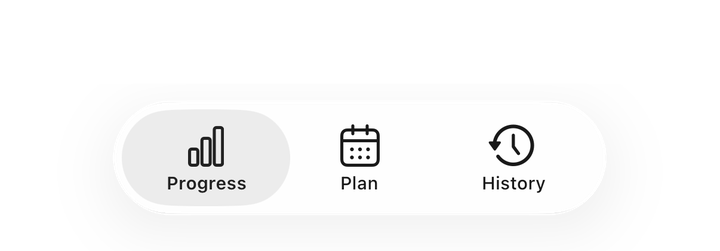
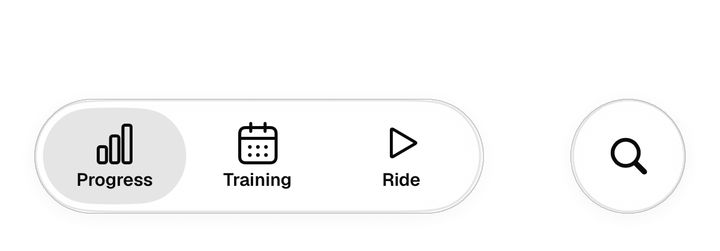
Torque case: plates from the app as of 2026-10-20 (Progress, Calendar, a ride, Ride now mid-session as one screen), new tab bars and poster; ?stagehold holds the opening frame for poster renders

diff --git a/index.html b/index.html
@@ -121,9 +121,9 @@
 
       <article class="case rise">
         <div class="case__media">
-          <img class="case__poster" src="public/images/torque/torque-stage-poster.jpg?v=3" alt="" loading="lazy">
+          <img class="case__poster" src="public/images/torque/torque-stage-poster.jpg?v=4" alt="" loading="lazy">
           <canvas class="case__canvas" data-stage="torque" data-model="public/models/iphone-17-pro.min.glb"
-                  data-plates="public/images/torque/plates/plate-1.webp?v=2,public/images/torque/plates/plate-2.webp?v=2,public/images/torque/plates/plate-3.webp?v=2,public/images/torque/plates/plate-4.webp?v=2"></canvas>
+                  data-plates="public/images/torque/plates/plate-1.webp?v=3,public/images/torque/plates/plate-2.webp?v=3,public/images/torque/plates/plate-3.webp?v=3,public/images/torque/plates/plate-4.webp?v=3"></canvas>
         </div>
         <div class="case__head">
           <h3 class="h3">Torque</h3>
@@ -148,7 +148,7 @@
                  data-src-narrow="public/videos/formalize-loop-narrow.mp4?v=1"
                  muted loop playsinline preload="none" aria-hidden="true"></video>
           <canvas class="case__canvas" data-stage="formalize" data-film="1"
-                  data-plates="public/images/formalize/plates/plate-1.webp?v=2,public/images/formalize/plates/plate-2.webp?v=2,public/images/formalize/plates/plate-3.webp?v=2,public/images/formalize/plates/plate-4.webp?v=2"></canvas>
+                  data-plates="public/images/formalize/plates/plate-1.webp?v=3,public/images/formalize/plates/plate-2.webp?v=3,public/images/formalize/plates/plate-3.webp?v=3,public/images/formalize/plates/plate-4.webp?v=3"></canvas>
         </div>
         <div class="case__head">
           <h3 class="h3">Formalize</h3>
@@ -173,7 +173,7 @@
                  data-src-narrow="public/videos/maersk-loop-narrow.mp4?v=1"
                  muted loop playsinline preload="none" aria-hidden="true"></video>
           <canvas class="case__canvas" data-stage="maersk" data-film="1"
-                  data-plates="public/images/maersk/plates/plate-1.webp?v=2,public/images/maersk/plates/plate-2.webp?v=2,public/images/maersk/plates/plate-3.webp?v=2"></canvas>
+                  data-plates="public/images/maersk/plates/plate-1.webp?v=3,public/images/maersk/plates/plate-2.webp?v=3,public/images/maersk/plates/plate-3.webp?v=3"></canvas>
         </div>
         <div class="case__head">
           <h3 class="h3">Maersk</h3>
@@ -192,7 +192,7 @@
         <div class="case__media">
           <img class="case__poster" src="public/images/matas/matas-stage-poster.jpg?v=2" alt="" loading="lazy">
           <canvas class="case__canvas" data-stage="matas" data-model="public/models/iphone-17-pro.min.glb"
-                  data-plates="public/images/matas/plates/plate-1.webp?v=2,public/images/matas/plates/plate-2.webp?v=2,public/images/matas/plates/plate-3.webp?v=2"></canvas>
+                  data-plates="public/images/matas/plates/plate-1.webp?v=3,public/images/matas/plates/plate-2.webp?v=3,public/images/matas/plates/plate-3.webp?v=3"></canvas>
         </div>
         <div class="case__head">
           <h3 class="h3">Matas</h3>

diff --git a/public/js/stage-configs-mono.js b/public/js/stage-configs-mono.js
@@ -332,9 +332,10 @@ window.STAGE_CONFIGS = {
     },
     sticky: [
       [{ edge: "top", px: 149, lead: true }, { edge: "bottom", src: "public/images/torque/plates/tabbar-progress.png" }],
-      [{ edge: "top", px: 149, lead: true }, { edge: "bottom", src: "public/images/torque/plates/tabbar-rides.png" }],
+      [{ edge: "top", px: 149, lead: true }, { edge: "bottom", src: "public/images/torque/plates/tabbar-calendar.png" }],
       null,
-      [{ edge: "top", px: 149, lead: true }, { edge: "bottom", src: "public/images/torque/plates/tabbar-plan.png" }],
+      // Ride now mid-session: one screen, nothing pinned (2026-10-21).
+      null,
     ],
     shots: [
       {
@@ -344,7 +345,7 @@ window.STAGE_CONFIGS = {
         to:   { az: -14, el: 5.5, dist: 18,   tx: 0.15, ty: -0.1, roll: -0.8, key: 1, amb: 1 },
       },
       {
-        // History: closer, from the right, tilted — the reading shot
+        // the Calendar: closer, from the right, tilted — the reading shot
         plate: 1, hold: 4.4, scroll: 0.55,
         from: { az: 22,  el: 3,   dist: 17.2, tx: -0.2, ty: 0.35, roll: 3.4, key: 1, amb: 1 },
         to:   { az: 12,  el: 6,   dist: 15.8, tx: 0,    ty: 0,    roll: 1.2, key: 1, amb: 1 },
@@ -356,7 +357,7 @@ window.STAGE_CONFIGS = {
         to:   { az: 13,  el: 12,  dist: 17.2, tx: -0.1, ty: 0.1,   roll: 0.4,  key: 1, amb: 1 },
       },
       {
-        // the Plan: low from the left, the mirror of the History shot
+        // Ride now mid-session: low from the left, the mirror of the Calendar shot
         plate: 3, hold: 4.4, scroll: 0.4,
         from: { az: -21, el: 4,   dist: 17.6, tx: 0.2,  ty: 0.3,  roll: -3.0, key: 1, amb: 1 },
         to:   { az: -12, el: 7,   dist: 16.2, tx: 0,    ty: 0,    roll: -1.0, key: 1, amb: 1 },

diff --git a/public/js/stage-configs.js b/public/js/stage-configs.js
@@ -191,9 +191,10 @@ window.STAGE_CONFIGS = {
     },
     sticky: [
       [{ edge: "top", px: 149, lead: true }, { edge: "bottom", src: "public/images/torque/plates/tabbar-progress.png" }],
-      [{ edge: "top", px: 149, lead: true }, { edge: "bottom", src: "public/images/torque/plates/tabbar-rides.png" }],
+      [{ edge: "top", px: 149, lead: true }, { edge: "bottom", src: "public/images/torque/plates/tabbar-calendar.png" }],
       null,
-      [{ edge: "top", px: 149, lead: true }, { edge: "bottom", src: "public/images/torque/plates/tabbar-plan.png" }],
+      // Ride now mid-session: one screen, nothing pinned (2026-10-21).
+      null,
     ],
     shots: [
       {
@@ -203,7 +204,7 @@ window.STAGE_CONFIGS = {
         to:   { az: -14, el: 5.5, dist: 18,   tx: 0.15, ty: -0.1, roll: -0.8, key: 1, amb: 1 },
       },
       {
-        // History: closer, from the right, tilted — the reading shot
+        // the Calendar: closer, from the right, tilted — the reading shot
         plate: 1, hold: 4.4, scroll: 0.55,
         from: { az: 22,  el: 3,   dist: 17.2, tx: -0.2, ty: 0.35, roll: 3.4, key: 1, amb: 1 },
         to:   { az: 12,  el: 6,   dist: 15.8, tx: 0,    ty: 0,    roll: 1.2, key: 1, amb: 1 },
@@ -215,7 +216,7 @@ window.STAGE_CONFIGS = {
         to:   { az: 13,  el: 12,  dist: 17.2, tx: -0.1, ty: 0.1,   roll: 0.4,  key: 1, amb: 1 },
       },
       {
-        // the Plan: low from the left, the mirror of the History shot
+        // Ride now mid-session: low from the left, the mirror of the Calendar shot
         plate: 3, hold: 4.4, scroll: 0.4,
         from: { az: -21, el: 4,   dist: 17.6, tx: 0.2,  ty: 0.3,  roll: -3.0, key: 1, amb: 1 },
         to:   { az: -12, el: 7,   dist: 16.2, tx: 0,    ty: 0,    roll: -1.0, key: 1, amb: 1 },

diff --git a/v2.js b/v2.js
@@ -101,14 +101,14 @@
              per-case colours, and the dev server sends only an ETag — an
              edited scene file otherwise sits behind a cached copy and the
              change looks like it did not take. */
-          .then(() => load("public/js/stage-configs-mono.js?v=179"))
+          .then(() => load("public/js/stage-configs-mono.js?v=180"))
           /* Before the stages, which look for window.StageQuality at
              construction. Optional in the real sense: if this 404s the
              stages fall through to the base render path rather than
              failing, so a case carrying a `quality` block still draws. */
           .then(() => load("public/js/stage-quality.js?v=177").catch(() => {}))
           .then(() => load("public/js/softbox-stage.js?v=180"))
-          .then(() => load("public/js/phone-stage.js?v=181"));
+          .then(() => load("public/js/phone-stage.js?v=182"));
       }
       return libs;
     };

diff --git a/public/js/phone-stage.js b/public/js/phone-stage.js
@@ -30,7 +30,7 @@ window.initPhoneStage = function (canvas, config) {
 
   const THREE = window.THREE;
   const gsap = window.gsap;
-  const still = window.matchMedia("(prefers-reduced-motion: reduce)").matches;
+  const still = window.matchMedia("(prefers-reduced-motion: reduce)").matches || /[?&]stagehold\b/.test(location.search); // ?stagehold: the opening frame, for posters
 
   /* The phone, in scene units. Everything else is measured off the model
      once it loads, so this is the only number that sets the scale. */
